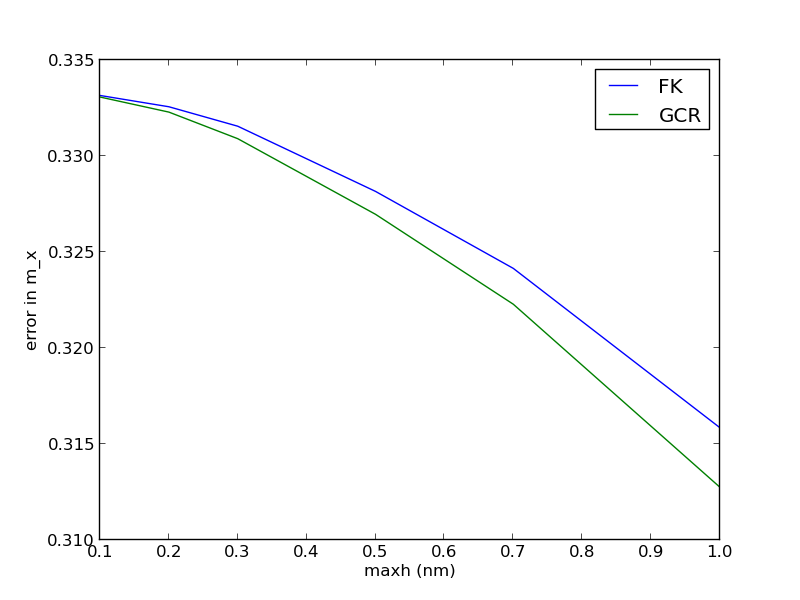
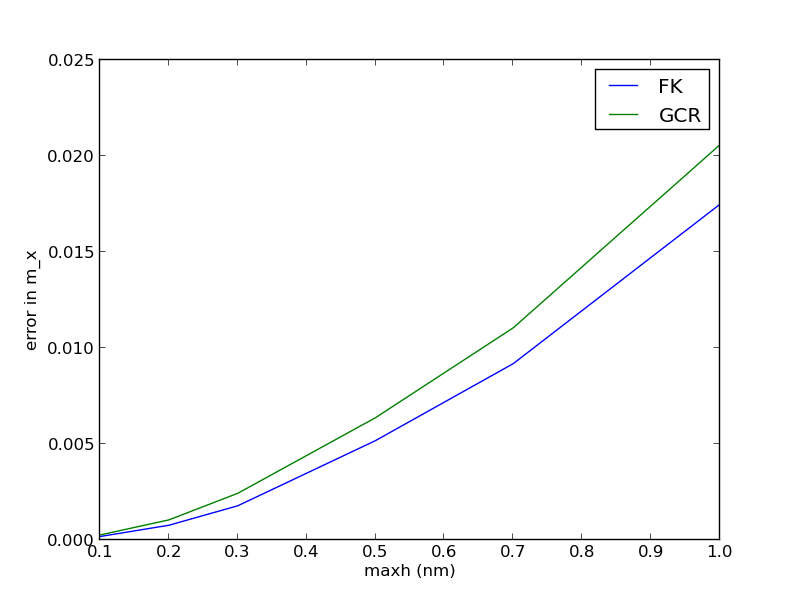
fix floating point error in FK/GCR comparison

diff --git a/sandbox/benchmarks/runtime_fk_gcr.py b/sandbox/benchmarks/runtime_fk_gcr.py
@@ -23,8 +23,9 @@ for maxh in maxhs:
             for j in range(10):
                 demag.compute_field()
         field = demag.compute_field().reshape((3, -1)).mean(axis=1)
-        error = abs(field[0] + 1/3)
-        print i
+        print field
+        error = abs(field[0] + 1.0/3)
+        print error
         timings[i].append(benchmark.elapsed)
         errors[i].append(error)
 
